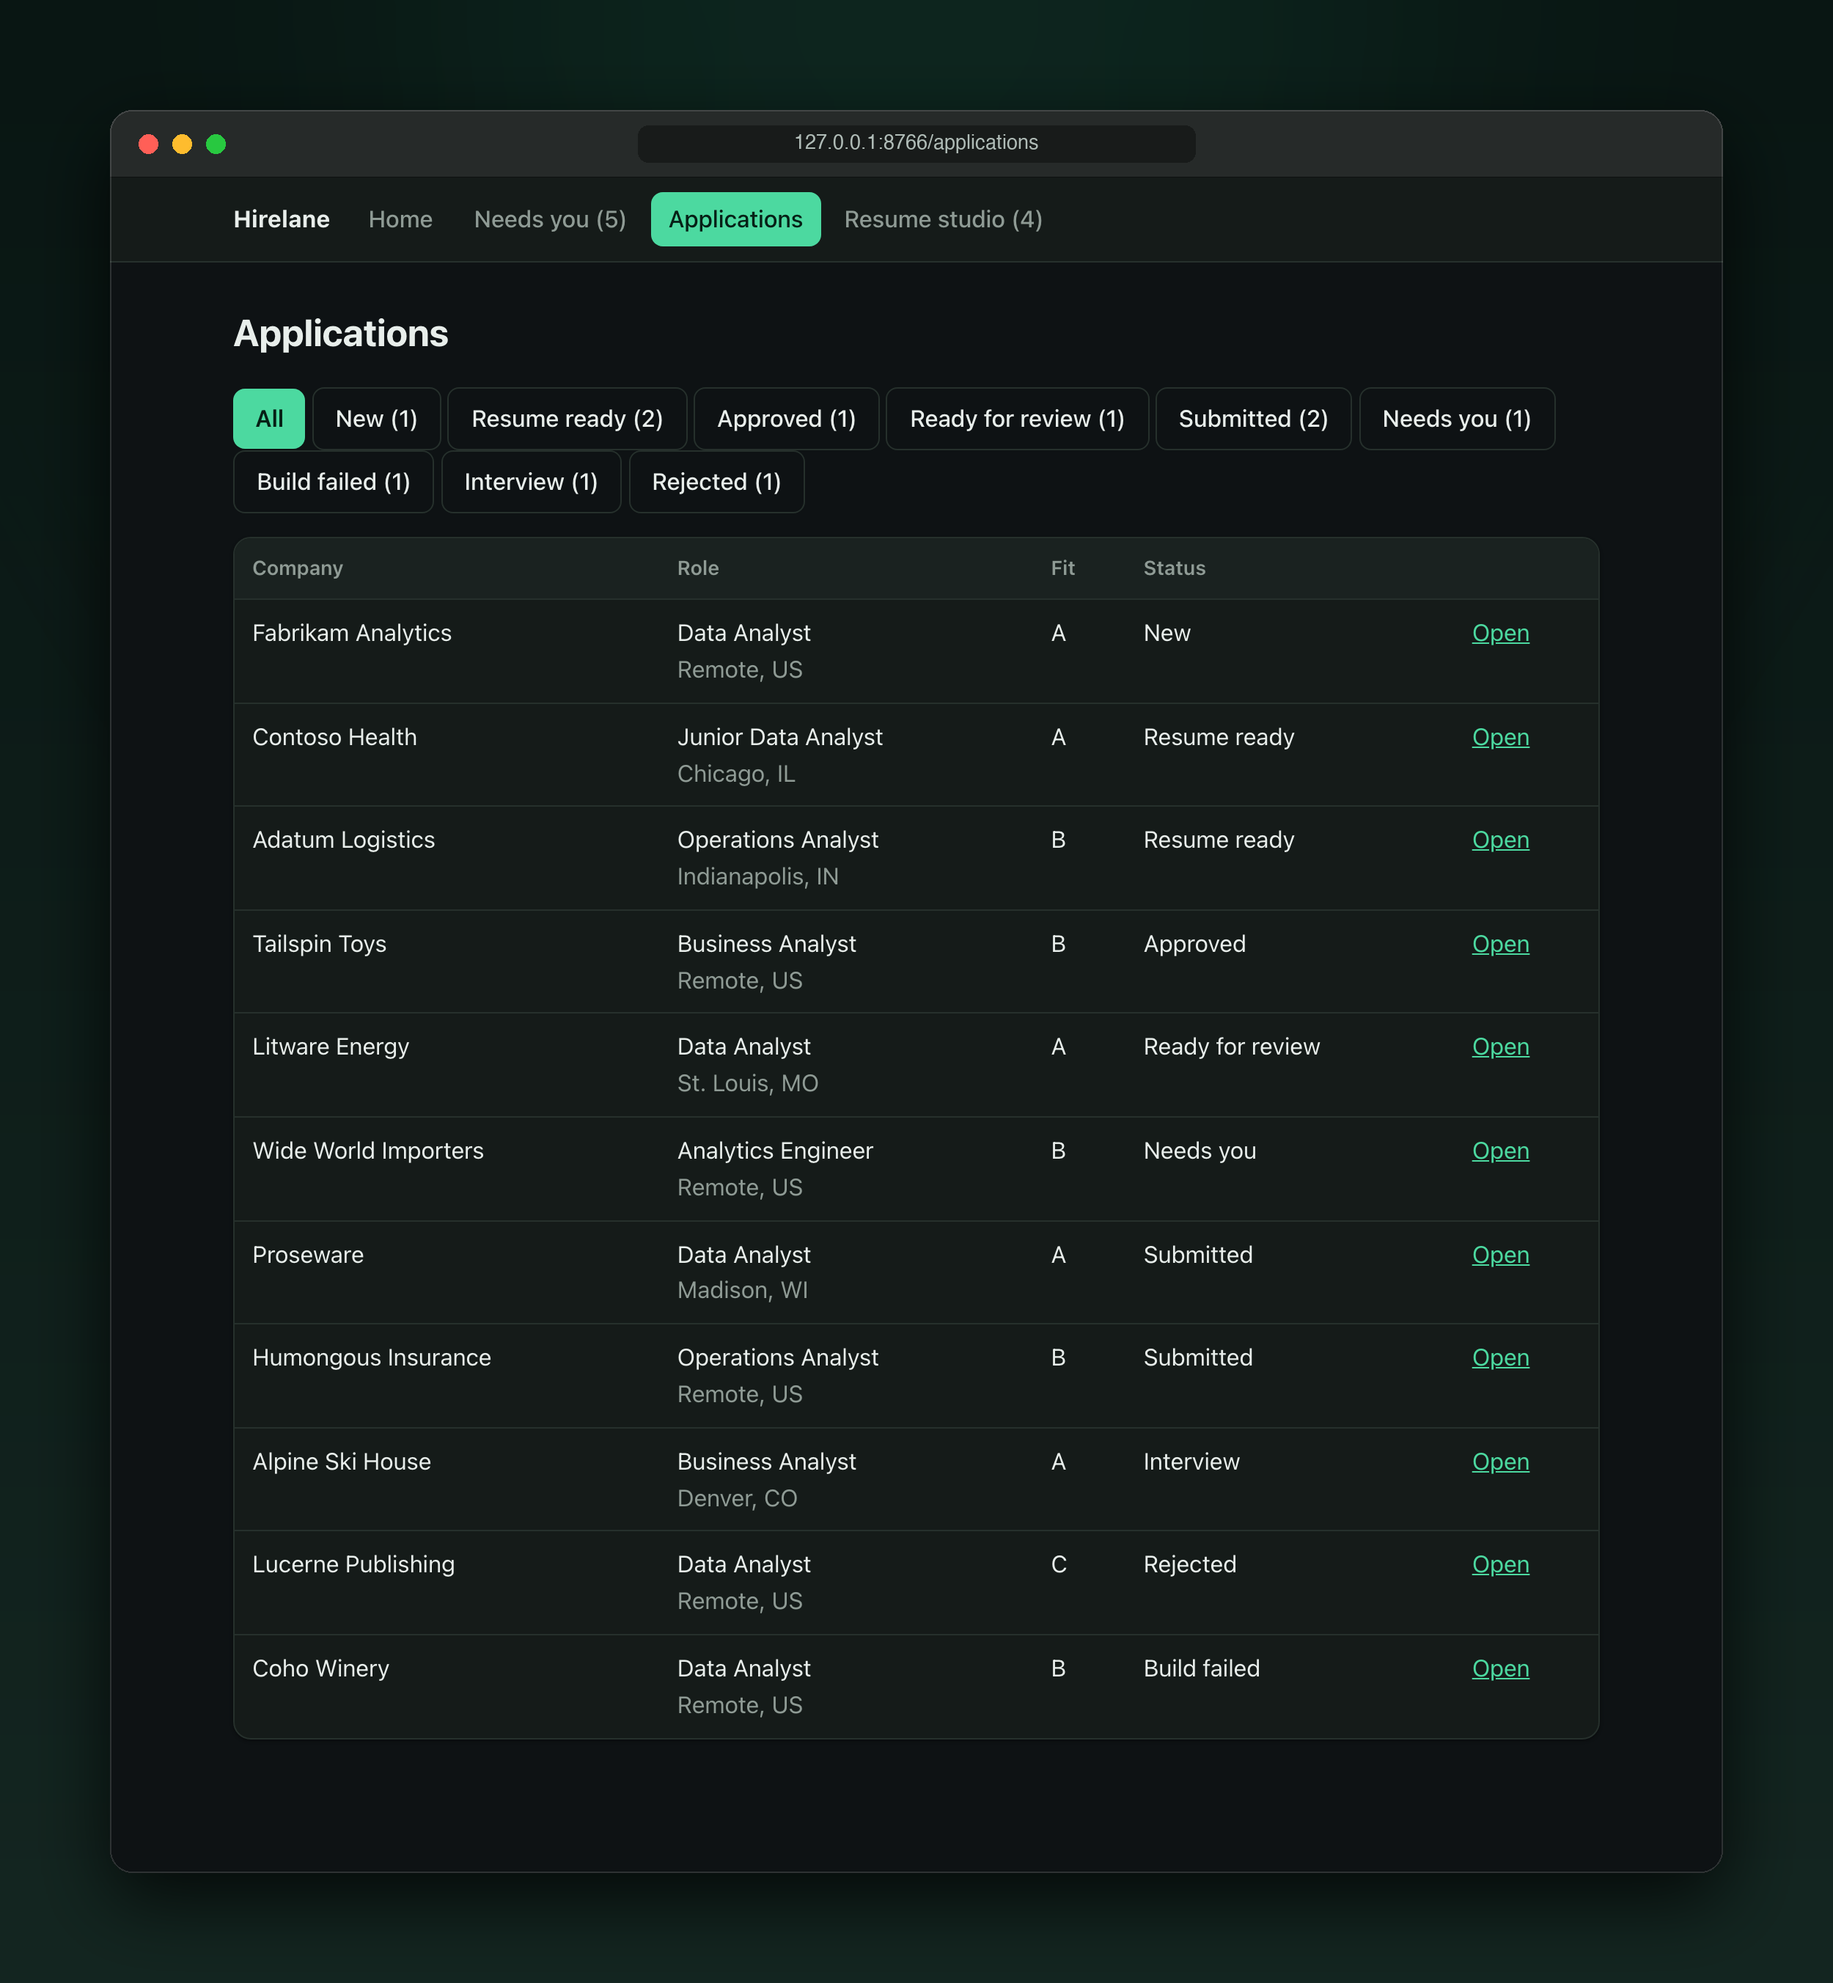
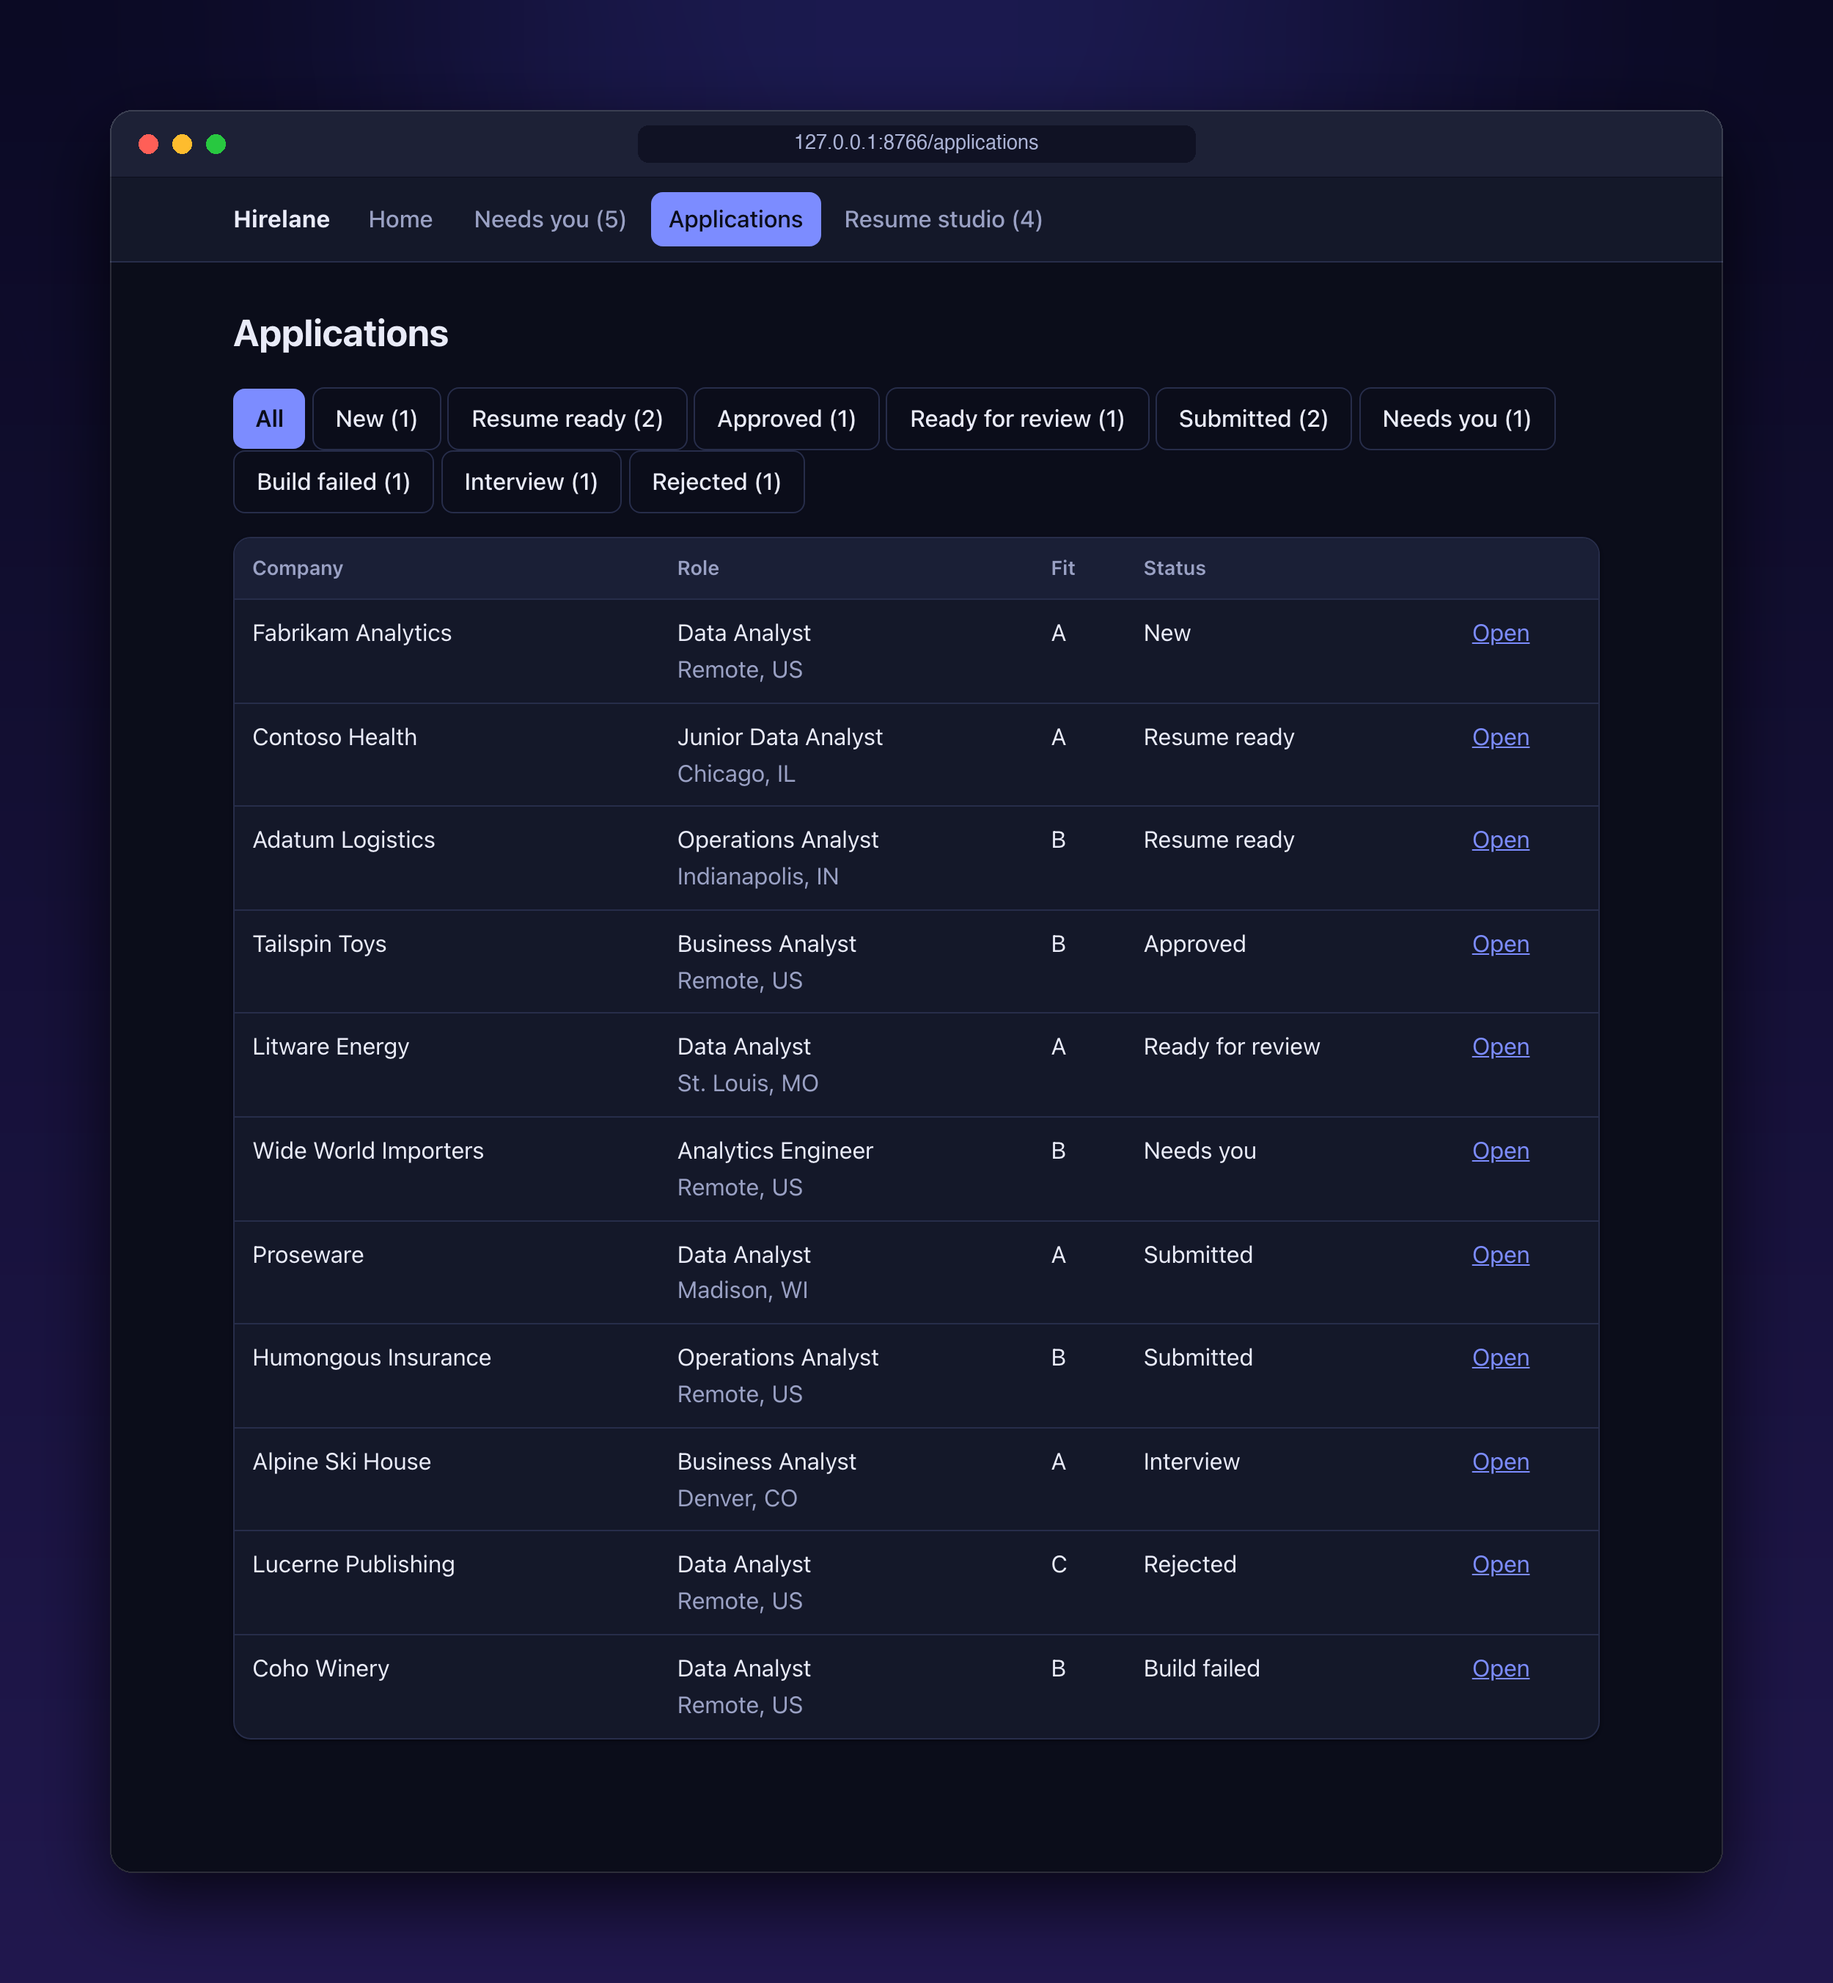
Switch the theme from green to blue and violet
New palette for the web interface, the banner, the diagrams and the badges, with pink, cyan and coral as accents. Screenshots are retaken to match.

diff --git a/hirelane/web/static/style.css b/hirelane/web/static/style.css
@@ -1,15 +1,15 @@
 :root {
   color-scheme: light;
-  --bg: #f6f7f5; --ink: #1b1f1d; --muted: #66706b; --line: #dde2df; --card: #ffffff; --card-2: #f1f4f2;
-  --accent: #1f6b52; --accent-ink: #ffffff; --warn: #8a4b08; --bad: #9b2226; --good: #1f6b52;
-  --flash: #e6f2ec; --shadow: 0 1px 2px rgba(20, 30, 25, 0.06);
+  --bg: #f5f6fb; --ink: #191b2e; --muted: #62678a; --line: #dcdfee; --card: #ffffff; --card-2: #eef0fa;
+  --accent: #4a50d8; --accent-ink: #ffffff; --warn: #8a5a08; --bad: #b3243a; --good: #0f6f94;
+  --flash: #e8eaff; --shadow: 0 1px 2px rgba(25, 27, 60, 0.07);
 }
 @media (prefers-color-scheme: dark) {
   :root {
     color-scheme: dark;
-    --bg: #0e1214; --ink: #e8eeeb; --muted: #8f9b95; --line: #26302c; --card: #151b19; --card-2: #1a2220;
-    --accent: #4cd9a0; --accent-ink: #062016; --warn: #f2b45e; --bad: #ff8a8f; --good: #4cd9a0;
-    --flash: #12251d; --shadow: 0 1px 2px rgba(0, 0, 0, 0.4);
+    --bg: #0b0d1a; --ink: #e9ebf8; --muted: #9aa1c4; --line: #272d4a; --card: #141829; --card-2: #1a1f36;
+    --accent: #7c8cff; --accent-ink: #0b0d1a; --warn: #ffc277; --bad: #ff8fa3; --good: #5ccfff;
+    --flash: #151a3a; --shadow: 0 1px 2px rgba(0, 0, 0, 0.45);
   }
 }
 * { box-sizing: border-box; }

diff --git a/README.md b/README.md
@@ -3,11 +3,11 @@
 <img src="docs/images/banner.svg" alt="Hirelane. Find roles, tailor truthfully, apply with a human in the loop." width="100%">
 
 [![CI](../../actions/workflows/ci.yml/badge.svg)](../../actions/workflows/ci.yml)
-![License MIT](https://img.shields.io/badge/license-MIT-4cd9a0?style=flat-square)
-![Python 3.11+](https://img.shields.io/badge/python-3.11%2B-6aa9ff?style=flat-square&logo=python&logoColor=white)
-![Platforms](https://img.shields.io/badge/macOS%20%7C%20Linux%20%7C%20Windows-a78bfa?style=flat-square)
-![Default mode](https://img.shields.io/badge/default-review%20before%20submit-f2b45e?style=flat-square)
-![Typed with mypy](https://img.shields.io/badge/types-mypy-5ad1e6?style=flat-square)
+![License MIT](https://img.shields.io/badge/license-MIT-7c8cff?style=flat-square)
+![Python 3.11+](https://img.shields.io/badge/python-3.11%2B-6ea8ff?style=flat-square&logo=python&logoColor=white)
+![Platforms](https://img.shields.io/badge/macOS%20%7C%20Linux%20%7C%20Windows-a98bff?style=flat-square)
+![Default mode](https://img.shields.io/badge/default-review%20before%20submit-f58bd8?style=flat-square)
+![Typed with mypy](https://img.shields.io/badge/types-mypy-5ccfff?style=flat-square)
 
 [Install](#install)  ·  [First 10 minutes](#your-first-10-minutes)  ·  [How it works](#how-it-works)  ·  [Safety](#responsible-use-and-safety)  ·  [Troubleshooting](#troubleshooting)
 
@@ -61,11 +61,11 @@ from those facts, and every form stops for you before it goes out.
 
 ## What it does
 
-![CAPTCHAs never solved](https://img.shields.io/badge/CAPTCHAs-never%20solved-ff8a8f?style=flat-square)
-![No accounts created](https://img.shields.io/badge/accounts-never%20created-ff8a8f?style=flat-square)
-![Approved facts only](https://img.shields.io/badge/resume%20facts-approved%20only-4cd9a0?style=flat-square)
-![Daily cap](https://img.shields.io/badge/daily%20cap-10%20by%20default-f2b45e?style=flat-square)
-![Local first](https://img.shields.io/badge/data-stays%20on%20your%20machine-6aa9ff?style=flat-square)
+![CAPTCHAs never solved](https://img.shields.io/badge/CAPTCHAs-never%20solved-ff8fa3?style=flat-square)
+![No accounts created](https://img.shields.io/badge/accounts-never%20created-ff8fa3?style=flat-square)
+![Approved facts only](https://img.shields.io/badge/resume%20facts-approved%20only-a98bff?style=flat-square)
+![Daily cap](https://img.shields.io/badge/daily%20cap-10%20by%20default-f58bd8?style=flat-square)
+![Local first](https://img.shields.io/badge/data-stays%20on%20your%20machine-6ea8ff?style=flat-square)
 
 - **Finds roles.** It reads the public job boards of the companies you list.
 - **Filters by level and location.** It drops postings that are too senior, in the wrong place, or that need something you do not have, such as a security clearance.
